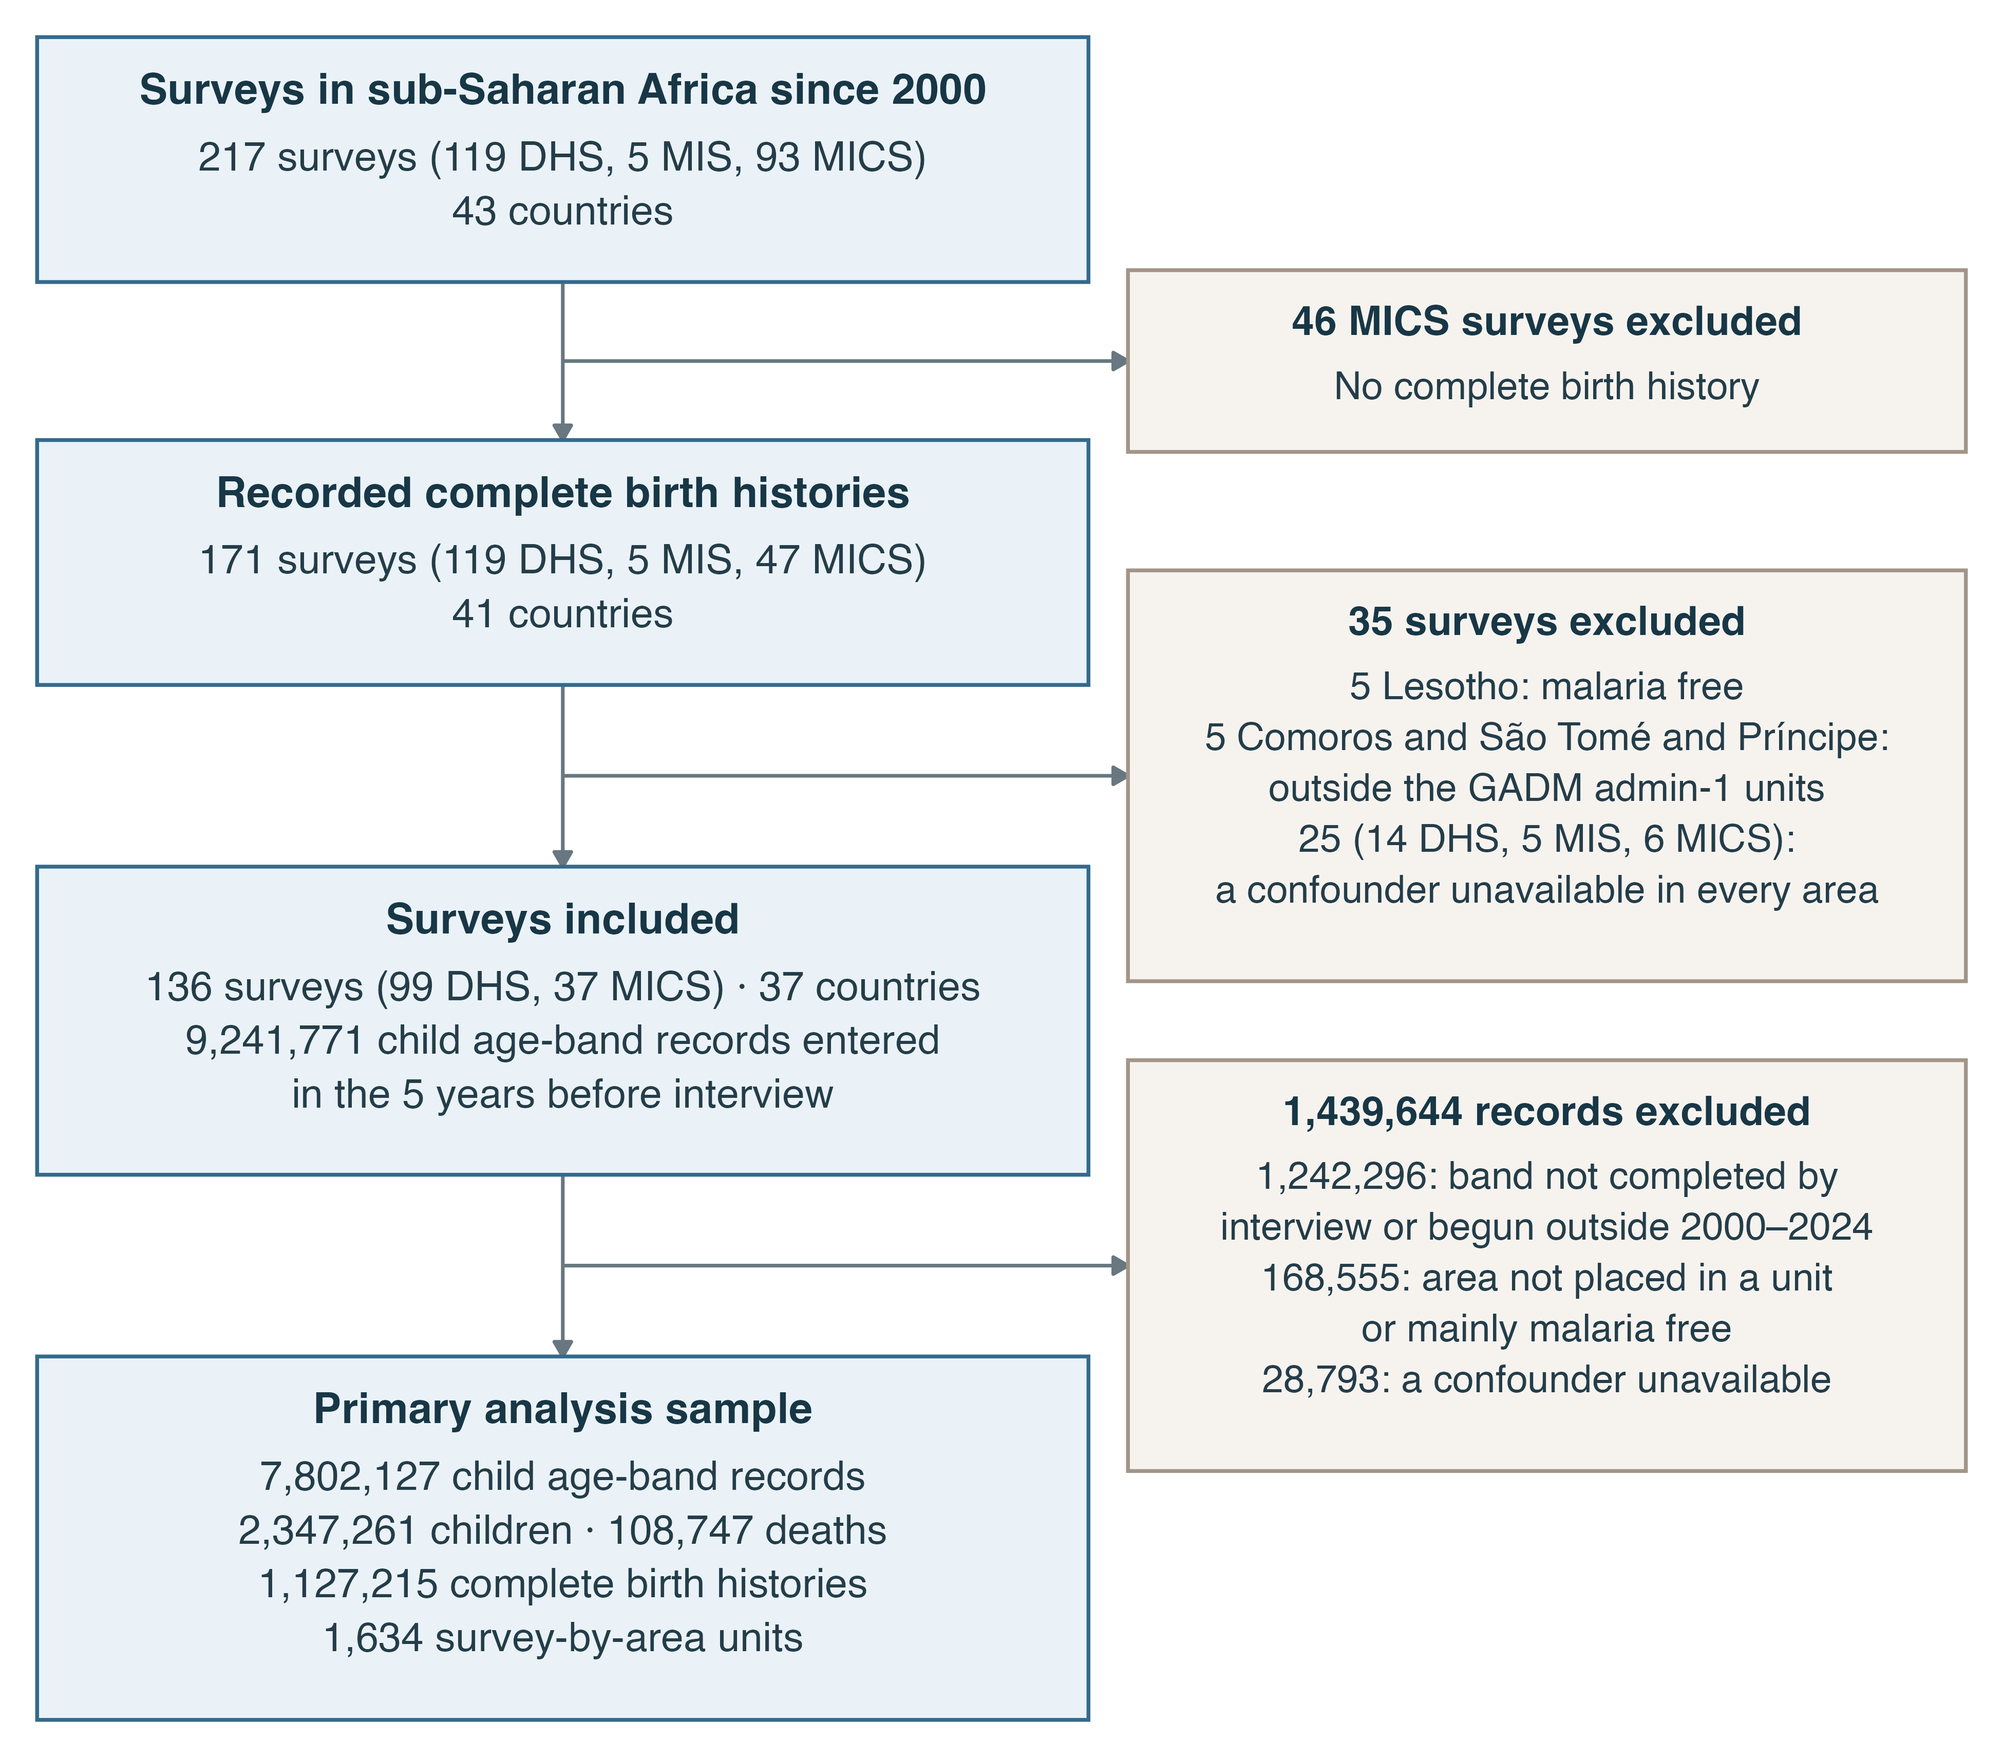
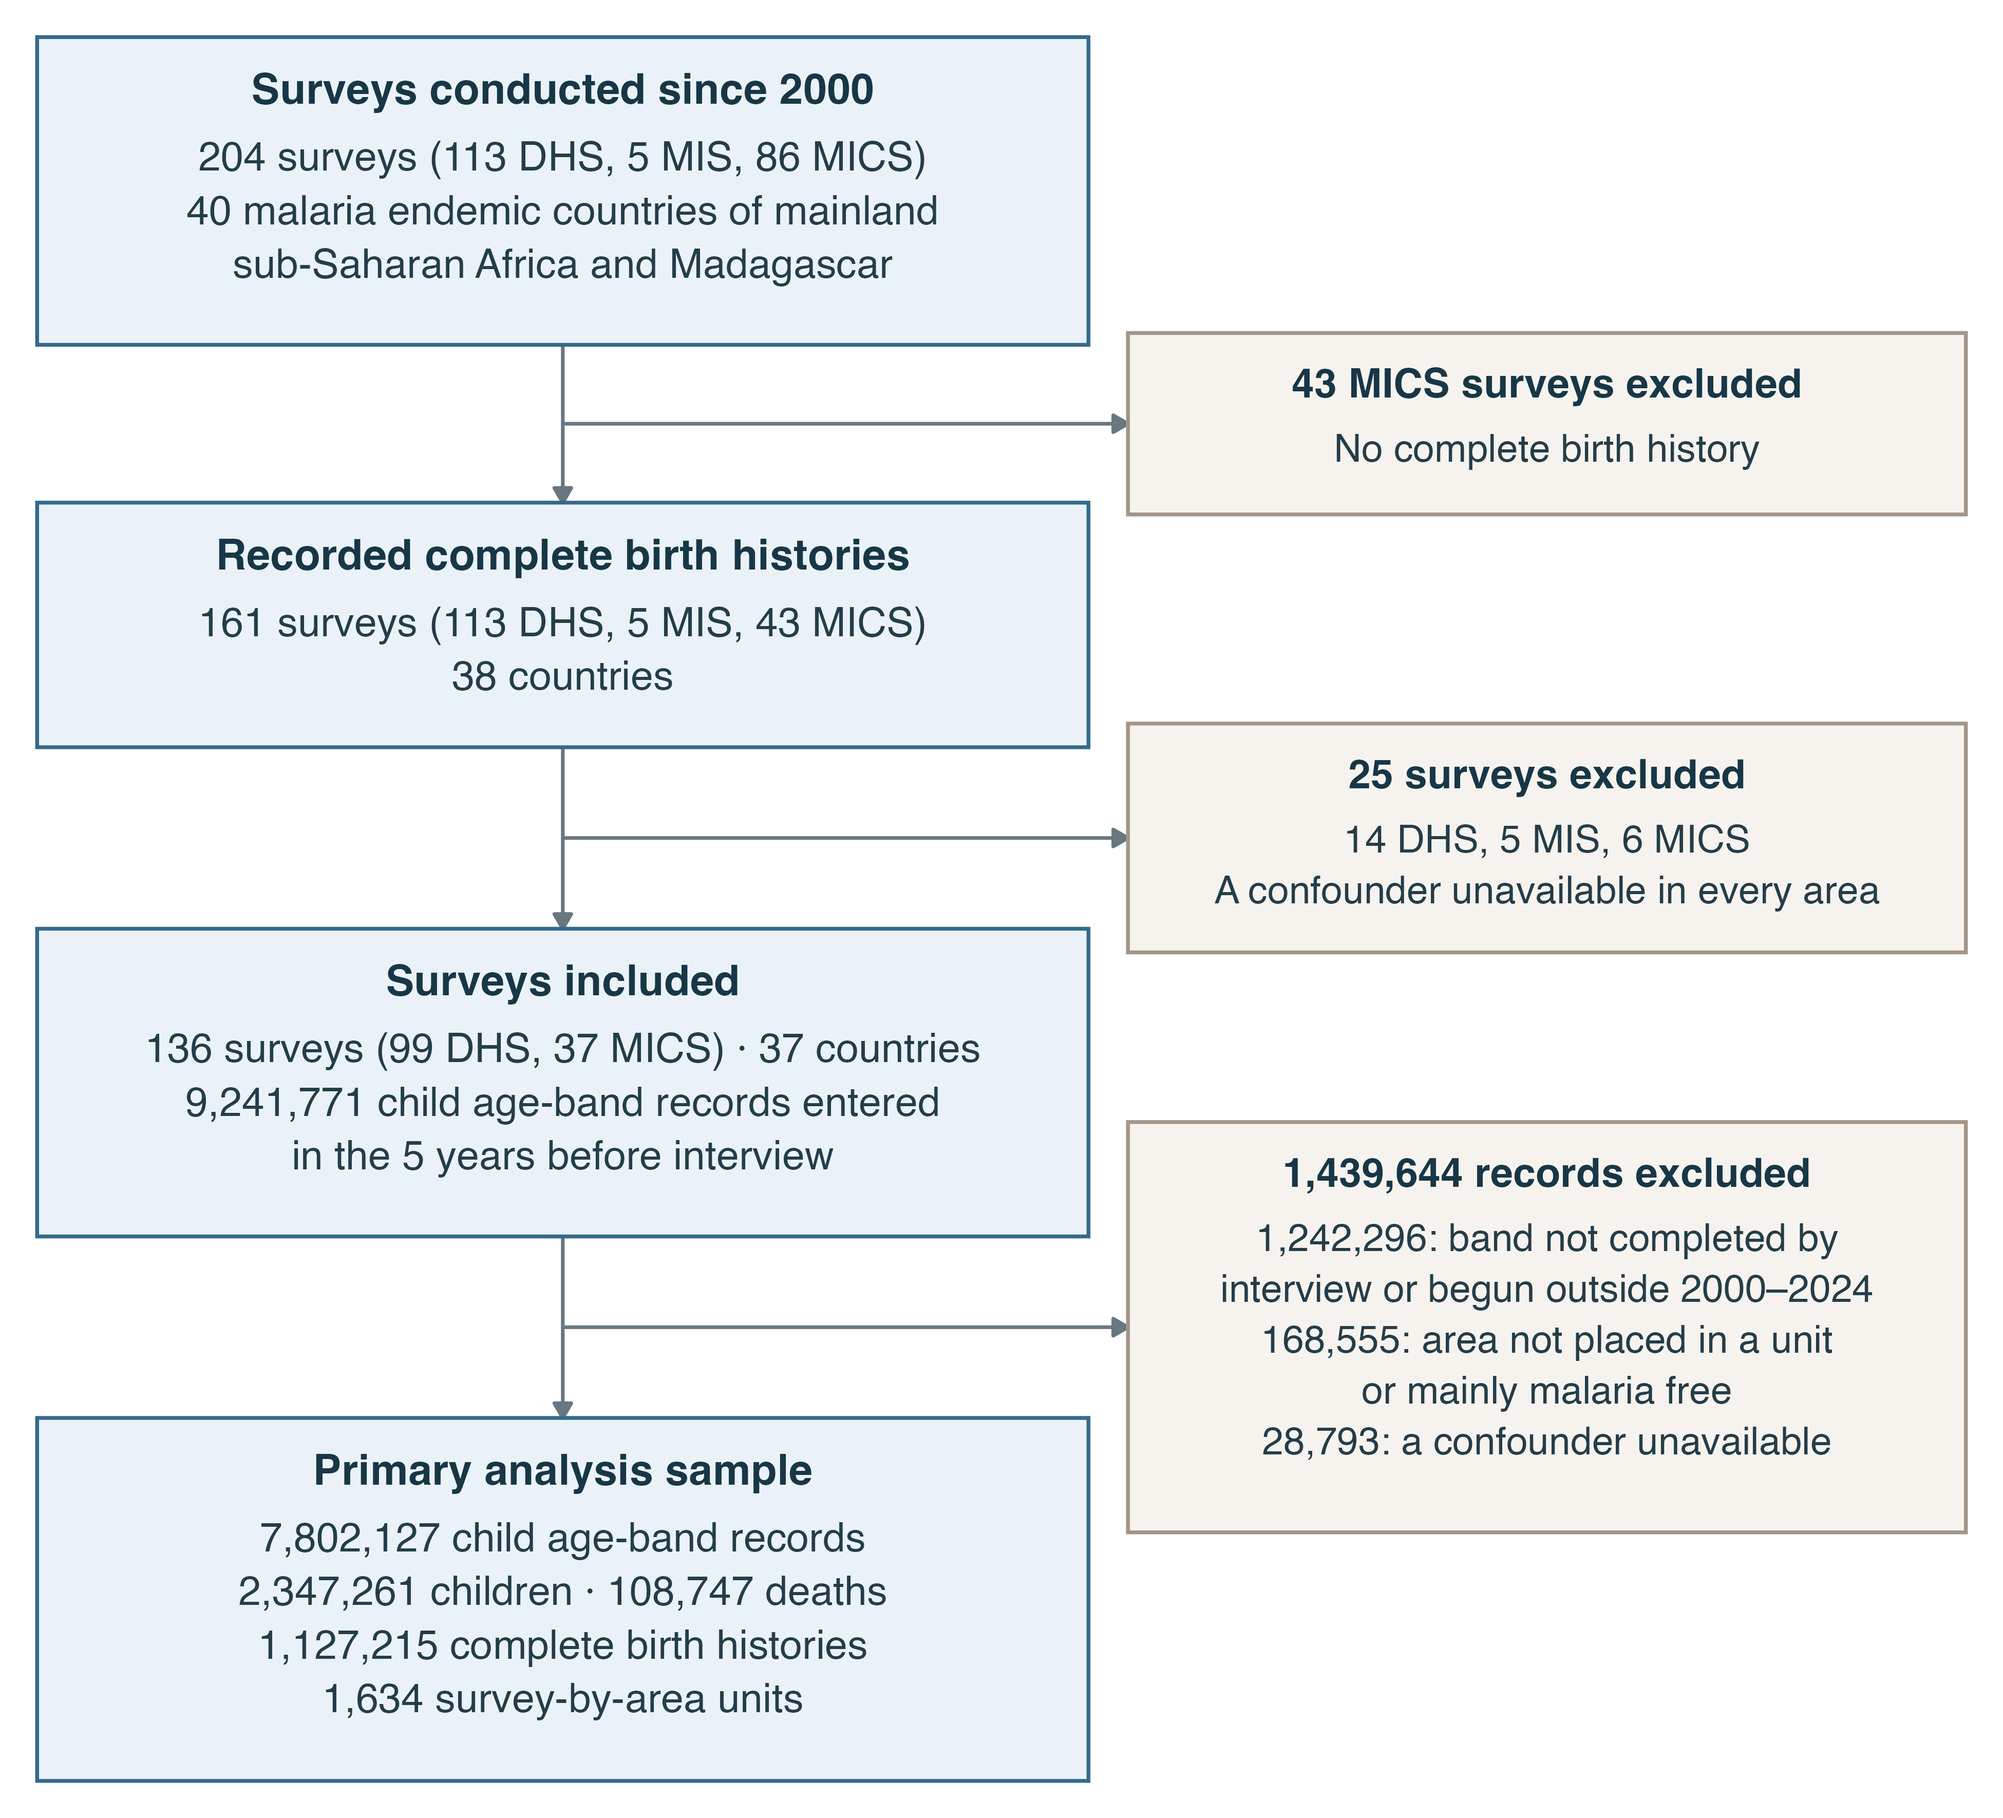
Study flow: start from surveys in endemic mainland countries and Madagascar
Author request, 19 November 2026, to match the Results text: 204 surveys, 161
with complete birth histories, 25 excluded for an unavailable covariate, 136
included. The surveys of Lesotho (malaria free) and of Comoros and São Tomé
and Príncipe (outside the units) are no longer boxes of the diagram; the
caption gives them (13 surveys, 10 with complete birth histories) and the full
ledger still covers every survey. README sentence updated to match.

diff --git a/paper/Supplementary Figures/sfig_study_flow_caption.md b/paper/Supplementary Figures/sfig_study_flow_caption.md
@@ -1,6 +1,6 @@
 # Figure caption — primary sample inclusion (GADM admin-1 units)
 
-**Figure. Sample inclusion for the primary analysis.** Of 217 DHS, MIS and MICS surveys conducted in sub-Saharan Africa since 2000 (119 DHS, 5 MIS, 93 MICS; 43 countries), 171 recorded complete birth histories (119 DHS, 5 MIS, 47 MICS; 41 countries); the other 46 MICS surveys recorded only summary birth histories. 35 surveys were excluded: 5 from Lesotho, which is malaria free and has no Malaria Atlas Project prevalence surface; 5 from Comoros and São Tomé and Príncipe, which lie outside the GADM admin-1 units; and 25 (14 DHS, 5 MIS, 6 MICS) in which at least one required covariate was unavailable in every survey × unit area. 136 surveys (99 DHS, 37 MICS) from 37 countries were included.
+**Figure. Sample inclusion for the primary analysis.** Of 204 DHS, MIS and MICS surveys conducted since 2000 in the 40 malaria endemic countries of mainland sub-Saharan Africa and Madagascar (113 DHS, 5 MIS, 86 MICS), 161 recorded complete birth histories (113 DHS, 5 MIS, 43 MICS; 38 countries); the other 43 MICS surveys recorded only summary birth histories. 25 surveys (14 DHS, 5 MIS, 6 MICS) were excluded because at least one required covariate was unavailable in every survey × unit area, and 136 surveys (99 DHS, 37 MICS) from 37 countries were included. Not counted in the diagram are 13 surveys (10 with complete birth histories) from Lesotho, which is malaria free and has no Malaria Atlas Project prevalence surface, and from Comoros and São Tomé and Príncipe, which lie outside the GADM admin-1 units.
 
 In the included surveys, 9,241,771 child age-band records were entered within the 60 months before interview; counts from here are records, not unique children. 1,242,296 were excluded because the band could not be completed by the interview (1,167,873) or began outside 2000–2024 (74,423); 168,555 because the record's area could not be placed in a GADM admin-1 unit (66,826 in survey-regions not matched to a boundary; 36,290 in Zanzibar, which has no unit) or lay in malaria-free or island units or in units more than half malaria free (65,439); and 28,793 because at least one required covariate was unavailable (first missing: health expenditure 28,793). Each record is placed in the GADM 4.1 admin-1 units (KEMRI-Wellcome merge; national boundaries for Botswana, Ghana, Kenya, Madagascar, Malawi, mainland Tanzania and Uganda) through its smallest reported administrative area: in the unit holding at least 90% of that area's population, or else in the union of the units each holding at least 5%. The primary sample has 7,802,127 records and 108,747 deaths from 2,347,261 children of 1,127,215 mothers (complete birth histories), in 1,634 survey × unit areas.
 

diff --git a/README.md b/README.md
@@ -122,8 +122,10 @@ malnutrition could mediate the relationship between *Pf*PR₂₋₁₀ and death
 
 ## Results
 
-Of 217 DHS, MIS and MICS surveys conducted in sub-Saharan Africa since 2000, 171 recorded complete birth histories.
-The primary analysis included 136 surveys (99 DHS and 37 MICS) from 37 countries. These data contained 1,127,215
+Of 204 DHS, MIS and MICS surveys conducted in malaria endemic countries of sub-Saharan Africa (mainland and
+Madagascar) since 2000, 161 recorded complete birth histories. After excluding 25 surveys in which at least one
+confounding variable was unavailable in every sub-national area, the primary analysis included 136 surveys (99 DHS
+and 37 MICS) from 37 countries. These data contained 1,127,215
 complete birth histories contributing 7,802,127 child age band records from 2,347,261 children of whom 108,747 died.
 
 Under the *Pf*PR-ACM model, the population-weighted average malaria-attributable mortality rate across the 42 malaria
